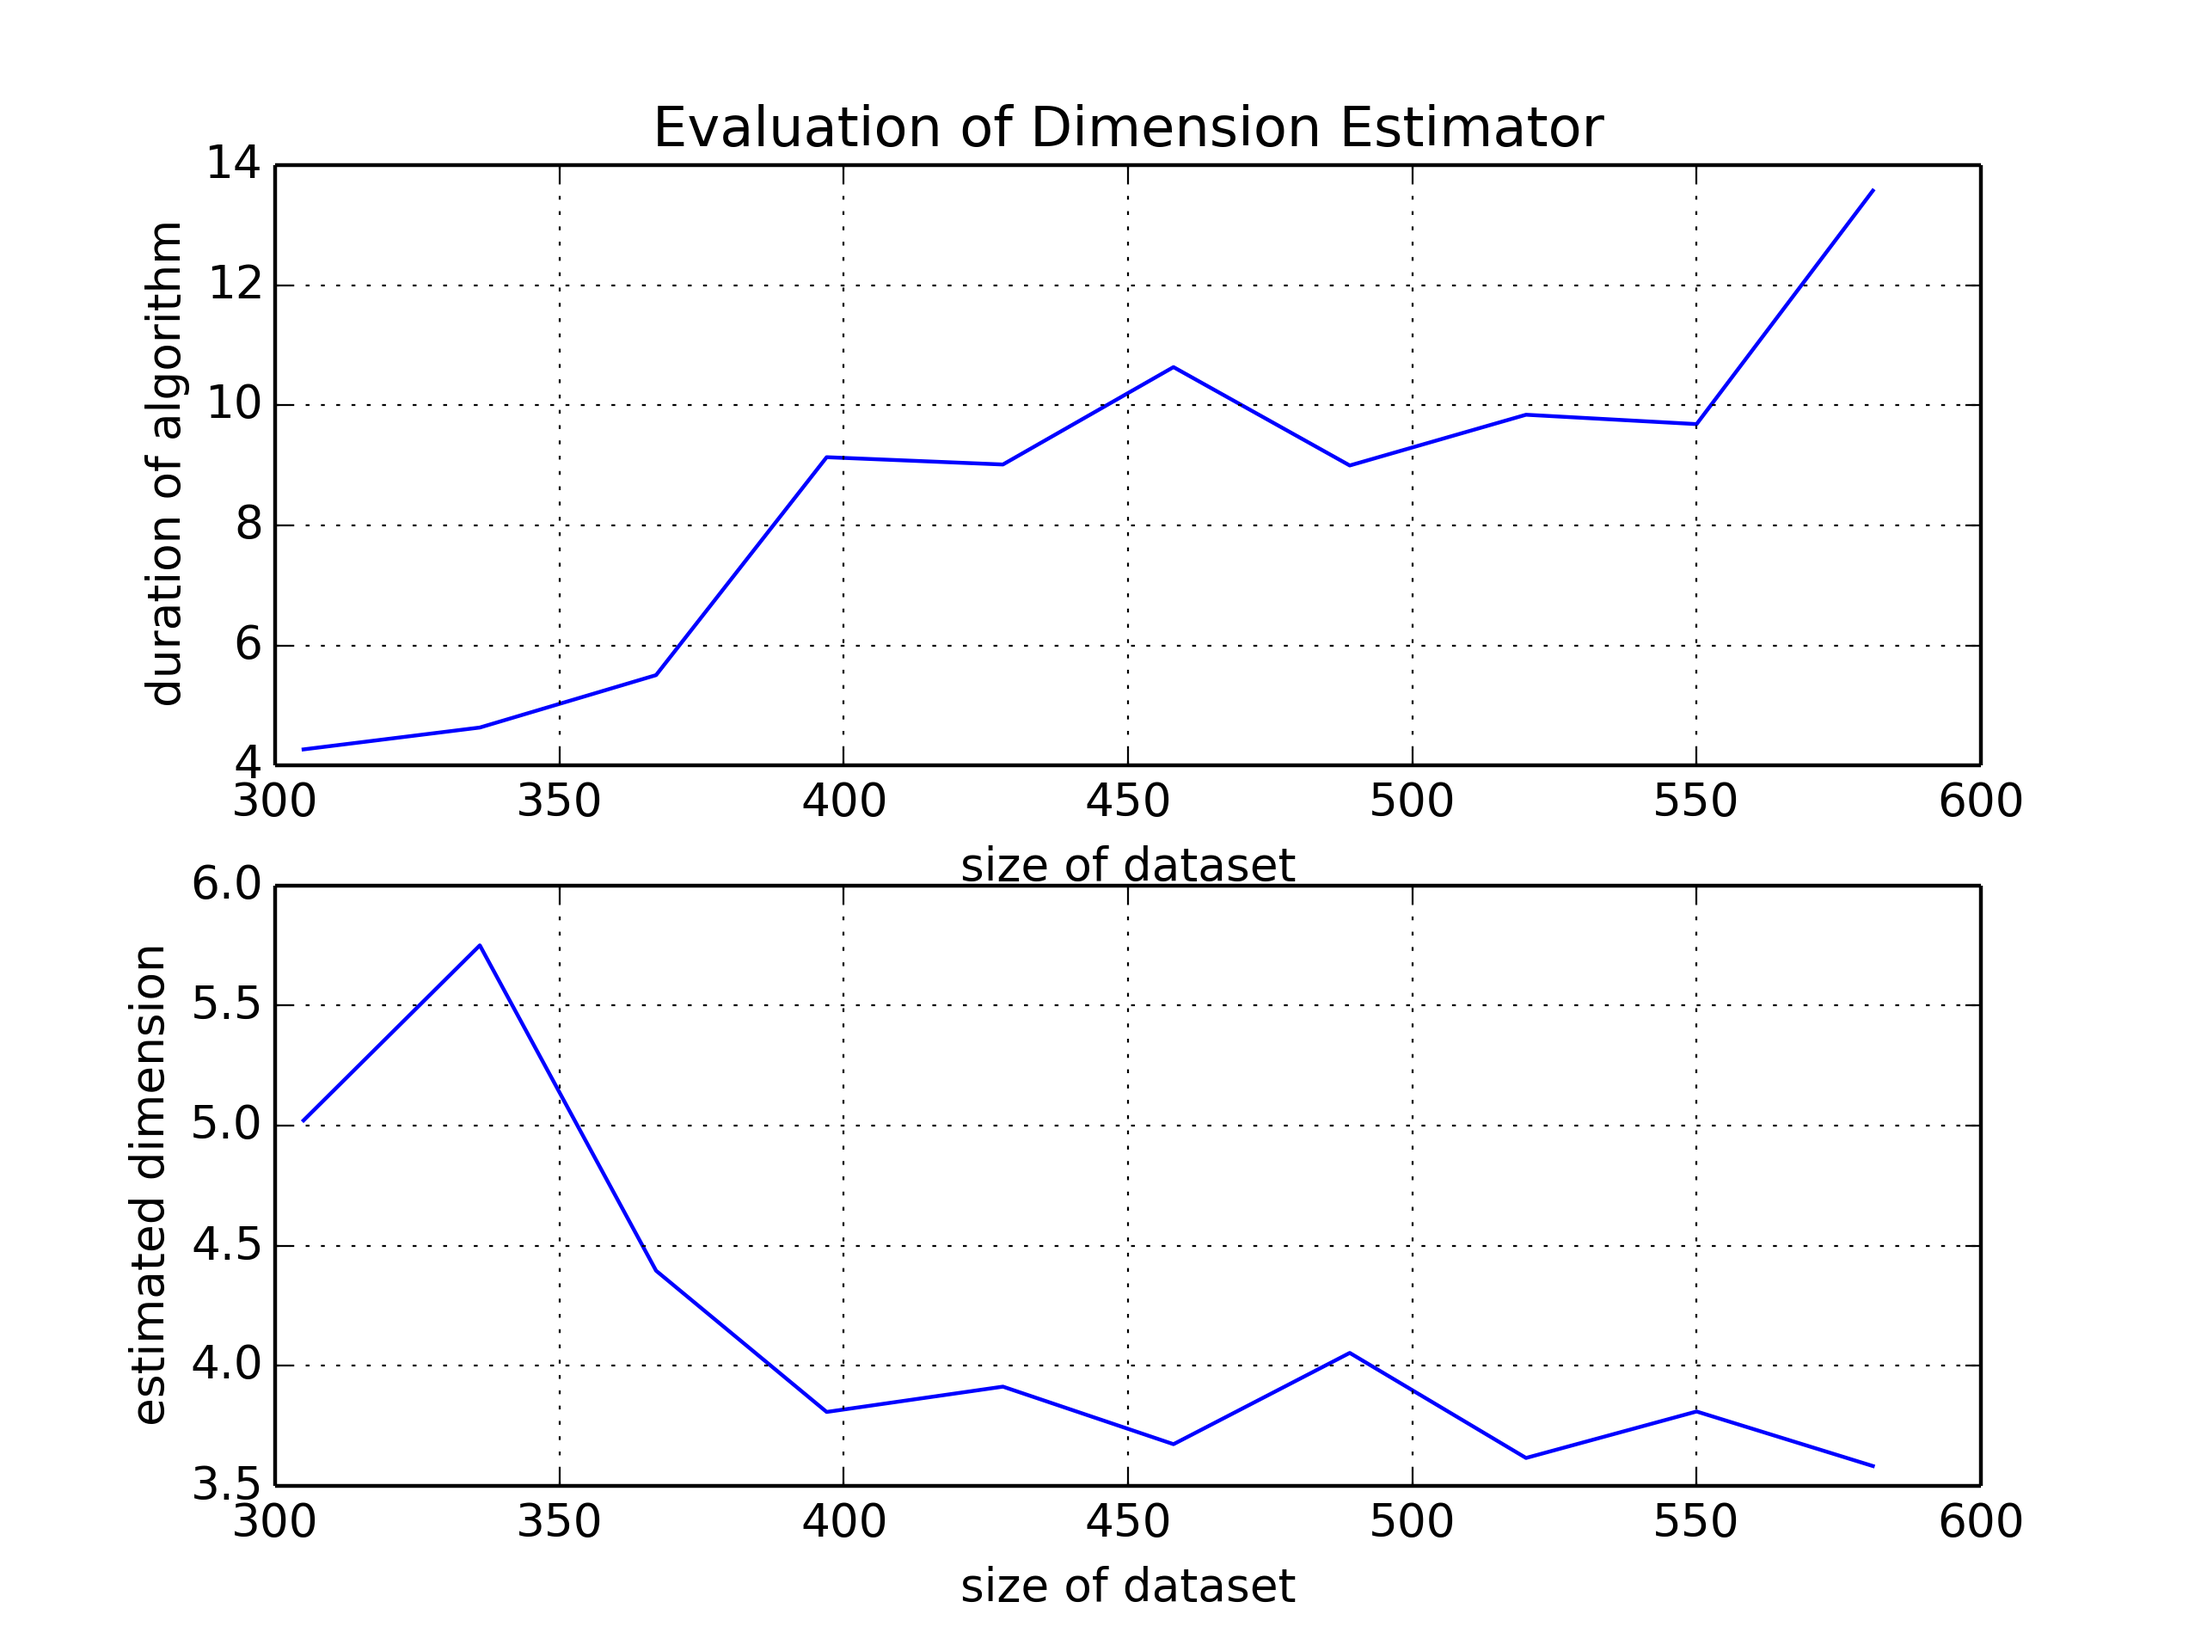
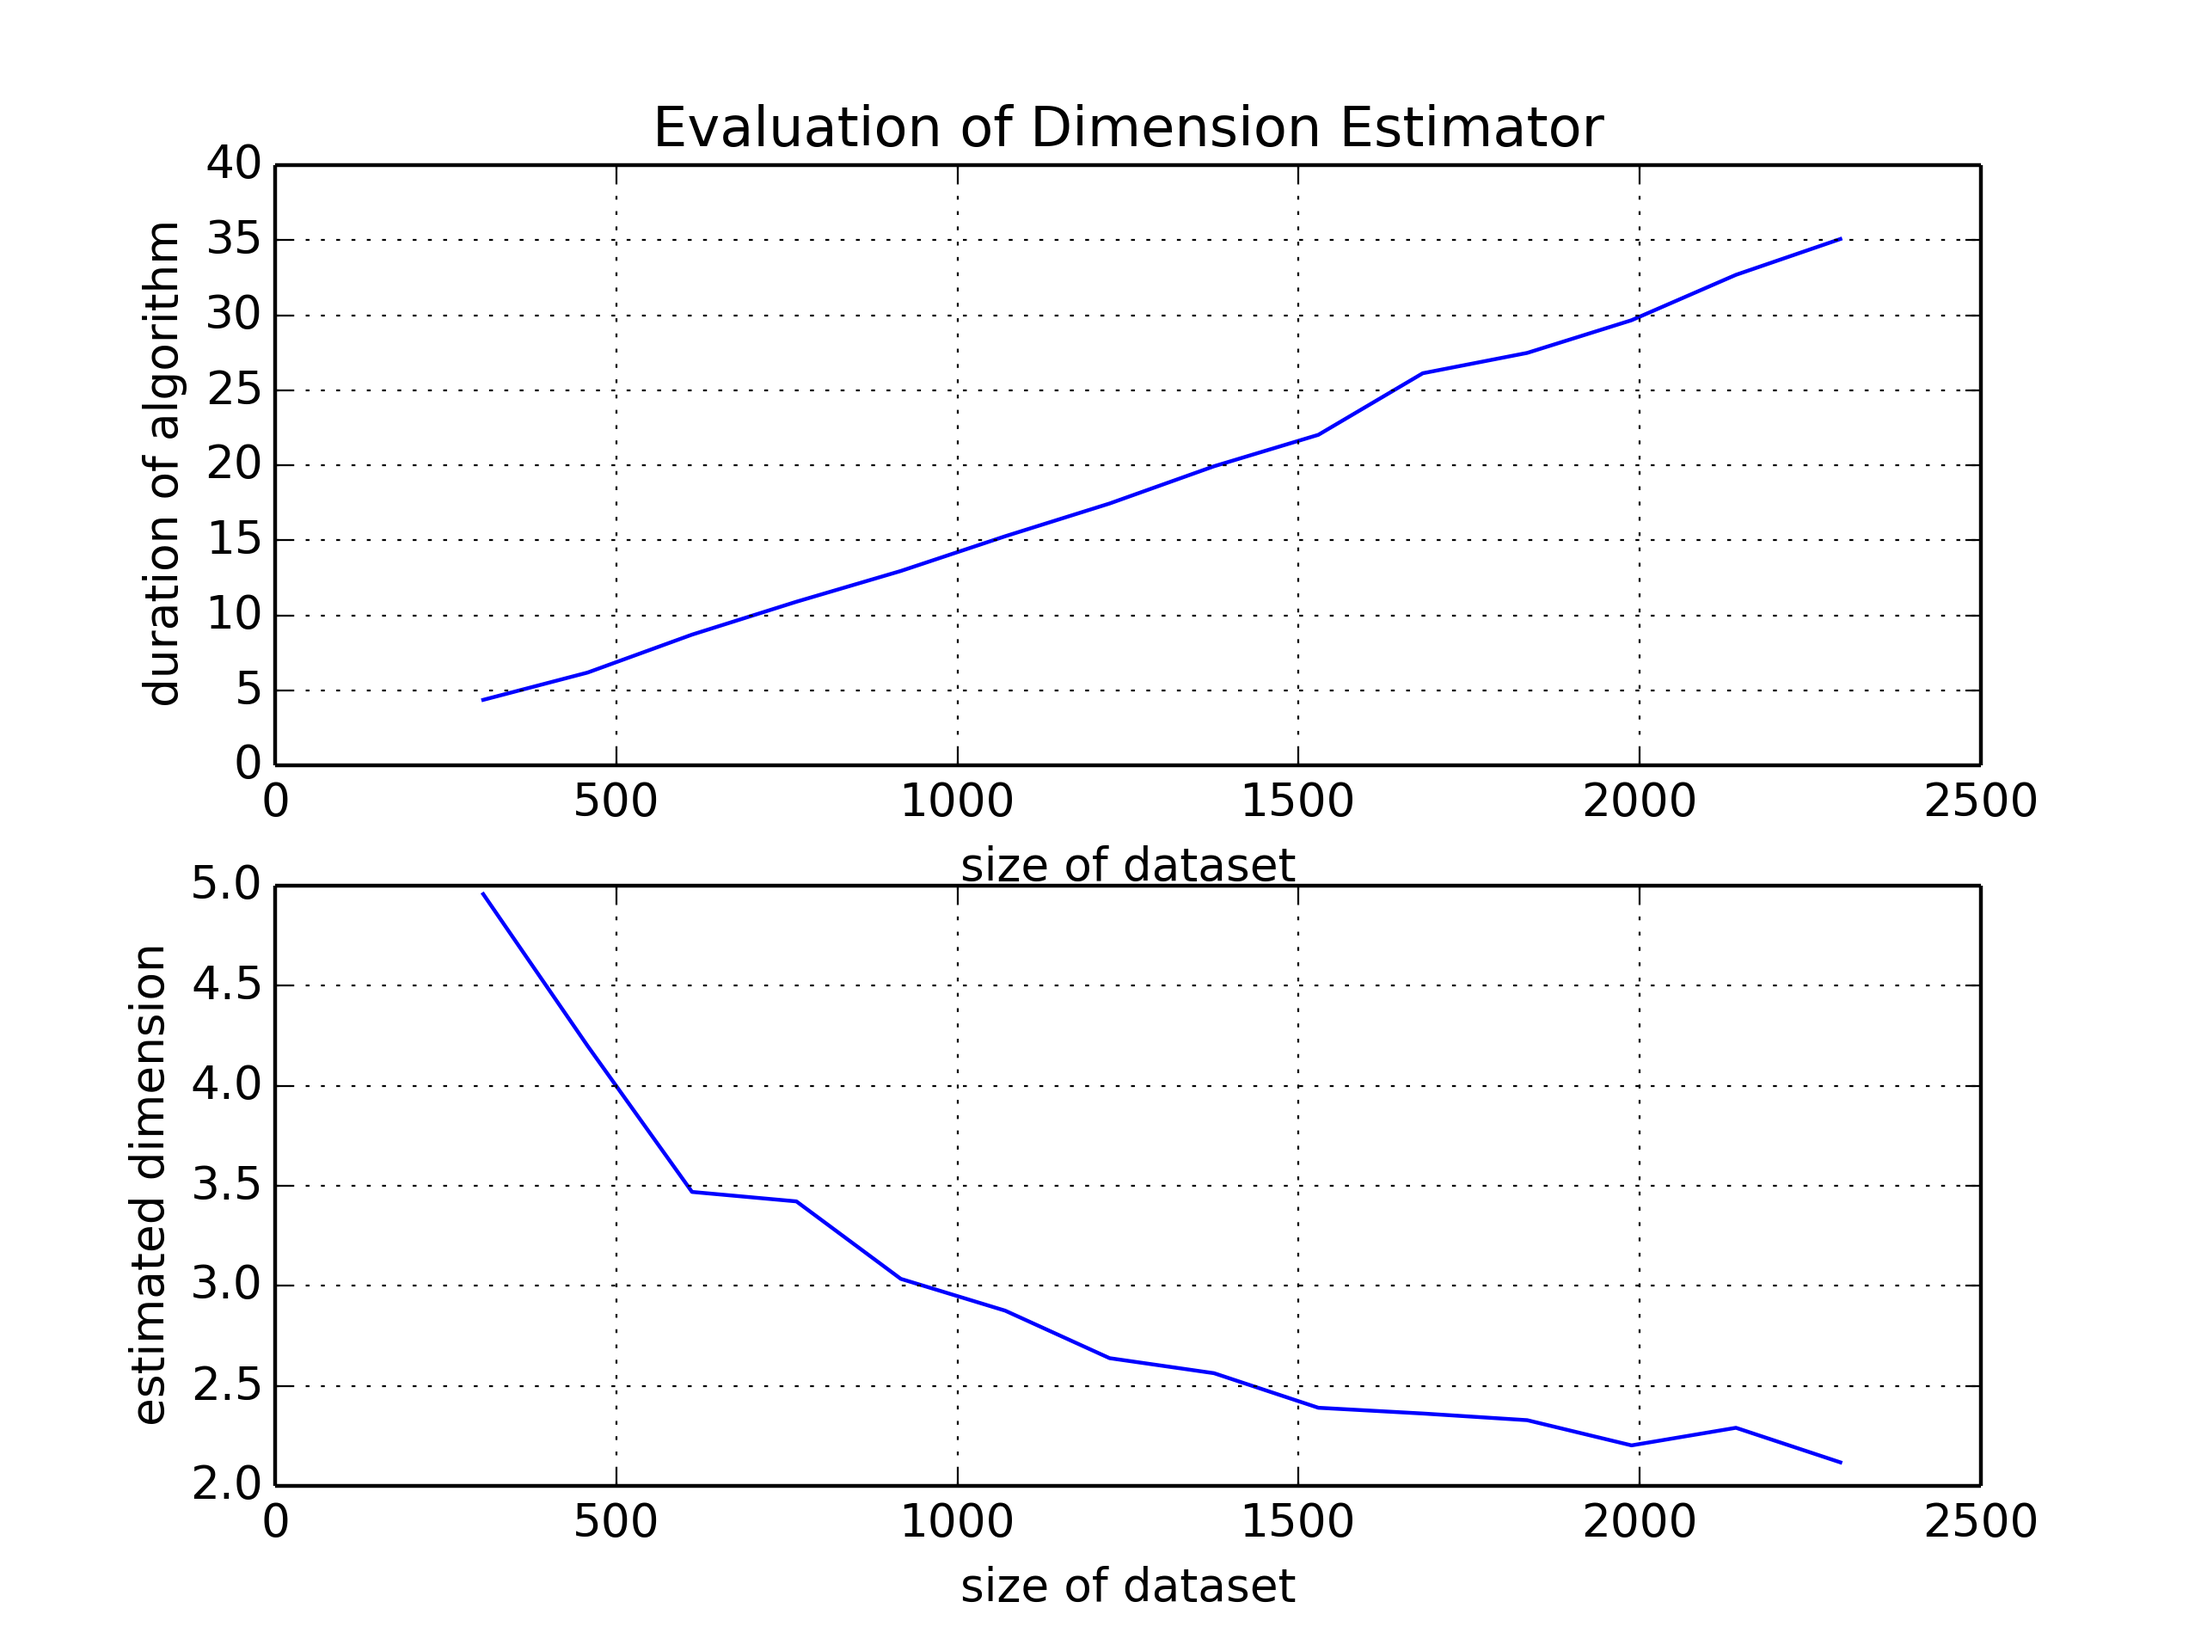
evaluate dimension estimate

diff --git a/evaluate-dimension-estimate/mle.py b/evaluate-dimension-estimate/mle.py
@@ -131,7 +131,7 @@ for load in datasets:
 
 data, label, desc, size = df.loadFirstPlistaDataset()
 
-trainBlockSizes = np.arange(0.001, 0.002, 0.0001)
+trainBlockSizes = np.arange(0.001, 0.005, 0.001)
 testSetPercentage = 0.2
 trainDataBlocks, trainLabelBlocks, testDataBlocks, testLabelBlocks = df.splitDatasetInBlocks(data, np.array(label), trainBlockSizes, testSetPercentage)
 
@@ -140,20 +140,30 @@ x = list()
 yDuration = list()
 yDimension = list()
 for i in range(len(trainDataBlocks)):
-    data = trainDataBlocks[i][0]
+    estimatedDimension = list()
+    duration = list()
 
-    shape = np.shape(data)
+    shape = np.shape(trainDataBlocks[i][0])
     x.append(shape[0])
 
-    label = trainLabelBlocks[i][0]
+    for j in range(len(trainDataBlocks[i])):
+        print j
+        data = trainDataBlocks[i][j]
+        label = trainLabelBlocks[i][0]
+
+        e, d = mle(data)
+        estimatedDimension.append(e)
+        duration.append(d)
+
+
+
     #analyze(data, label)
 
-    estimatedDimension, duration = mle(data)
 
     print "estimated dimension: %s" % estimatedDimension
 
-    yDuration.append(duration)
-    yDimension.append(estimatedDimension)
+    yDuration.append(np.mean(duration))
+    yDimension.append(np.mean(estimatedDimension))
 
 
 
